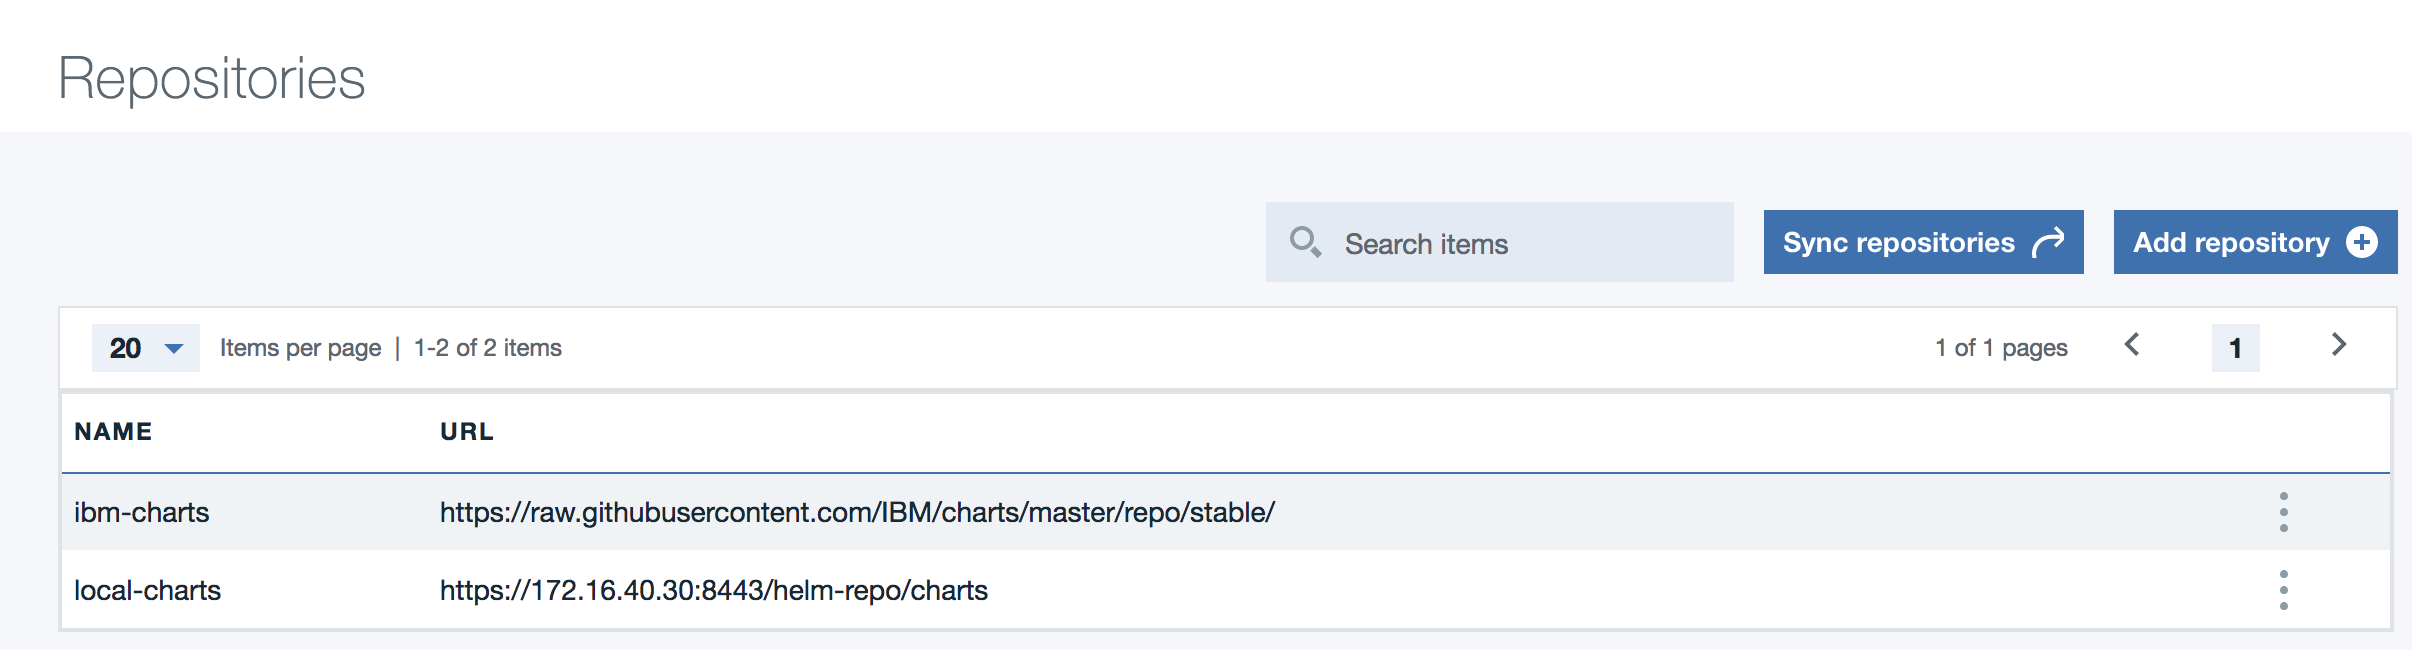
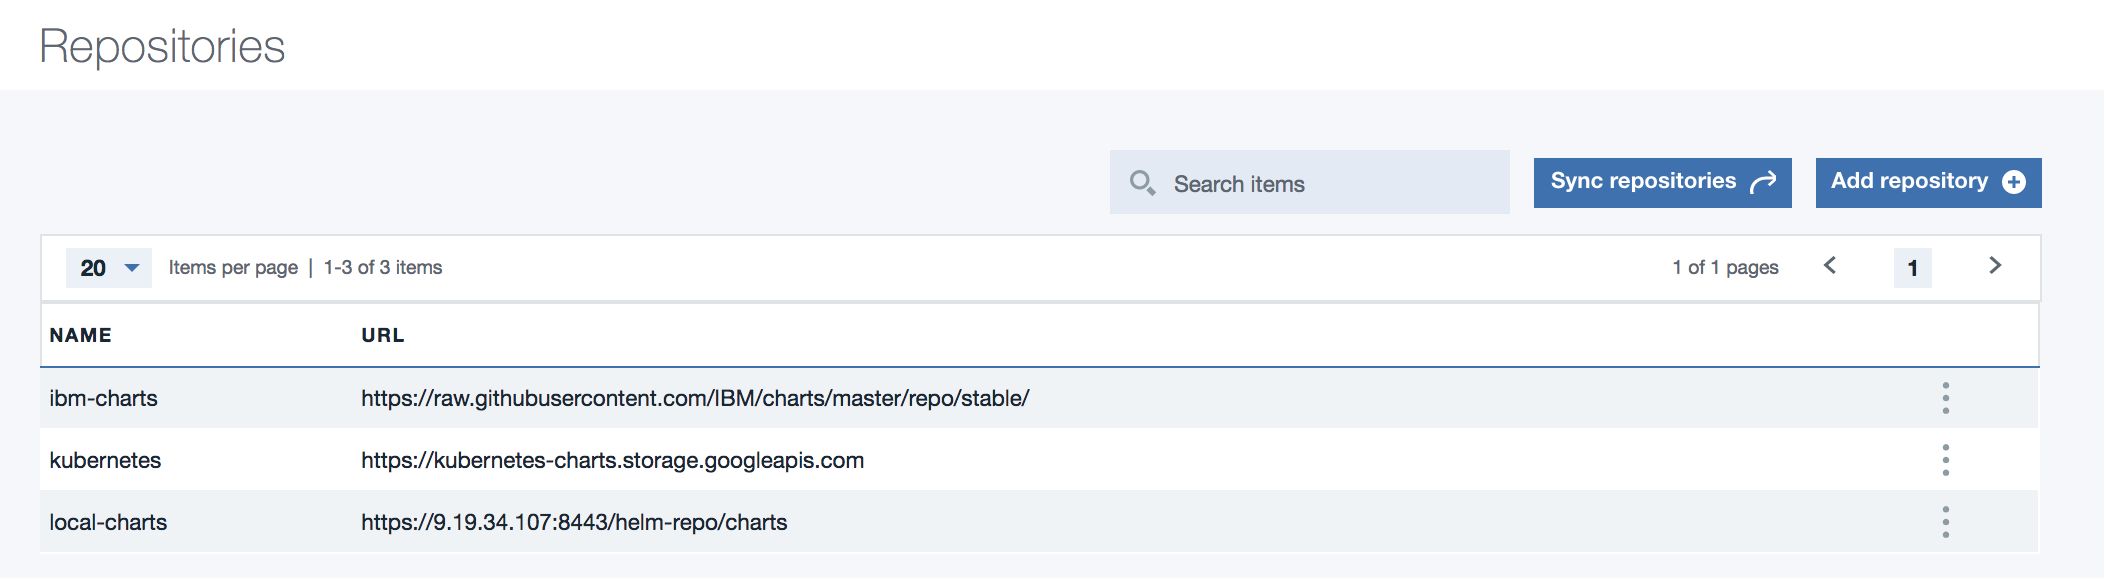
Deploy to icp update

diff --git a/docs/icp/README.md b/docs/icp/README.md
@@ -1,7 +1,7 @@
 # IBM Cloud Private Deployment
-In this section we are presenting how *Hybrid integration compute implementation* is deployed to IBM Cloud Private. For that we will address different configurations as business and operation requirements may differ per data center.
+In this section we are presenting how *Hybrid integration compute implementation* is deployed to IBM Cloud Private. For that we will address different configurations as business and operation requirements may differ per data center and even per business application.
 
-Updated 10/18/2107
+Updated 10/23/2107
 
 ## Prerequisites
 * A conceptual understanding of how [Kubernetes](https://kubernetes.io/docs/concepts/) works.
@@ -9,38 +9,45 @@ Updated 10/18/2107
 * A basic understanding of [IBM Cloud Private cluster architecture](https://www.ibm.com/support/knowledgecenter/SSBS6K_2.1.0/getting_started/architecture.html).
 * Access to an operational IBM Cloud Private cluster.
 * Install the IBM Cloud Private command line interface to manage applications, containers, services...
-* Add a **brown** namespace using ICP admin console, under Admin > Namespaces menu
+* Add a **brown** namespace using ICP admin console, under **Admin > Namespaces** menu
+
 ![](icp-namespace.png)
 
 ![](icp-brown-ns.png)
 
-We will use this namespace to push brown components.
+We will use this namespace to push *brown* components.
 
 # ICP installation
-For the development purpose, tutorial, etc, we are using a deployment in a single virtual machine, but you will have different installation for each of you different staging environments. See [how to install a ubuntu VM and ICP 2.1](https://github.com/ibm-cloud-architecture/refarch-cognitive/blob/master/docs/ICP/README.txt)
-
-For a full tutorial on how to install ICP with 5 hosts see [this note](https://github.com/ibm-cloud-architecture/refarch-privatecloud/blob/master/Installing_ICP_on_prem.md)
+For development purpose and tutorials, we are using a ICP CE deployment in a single virtual machine. We documented how to install ICP 2.1 on ubuntu VM [here](https://github.com/ibm-cloud-architecture/refarch-cognitive/blob/master/docs/ICP/README.txt)
+For enterprise scale solution you may use multi-environments, and for high availability you will use multiple master, proxy and worker nodes.  There [following](https://github.com/ibm-cloud-architecture/refarch-privatecloud/blob/master/Installing_ICp_on_prem.md) tutorial will help you.
 
 See [ICP 2.1 product documentation](https://www.ibm.com/support/knowledgecenter/SSBS6K_2.1.0/installing/install_containers_CE.html) to get other details.
 
 # Configurations
-As an hybrid solution each components of the solution can run on existing on-premise servers or some of the components may run on IBM Cloud private. The decision to move will be linked to business requirements and availability of IBM middleware products as docker image.
-For each components of the solution the following needs to be done
+As an hybrid solution each component of the solution may run on existing on-premise server or on IBM Cloud Private. The deployment decision will be driven by the business requirements and the availability of underlying IBM middleware product as docker image.
+
+For each component of the 'hybrid integration' solution the following needs may be done:
    * build the docker image
    * tag the image with information about the target repository server, namespace, tag and version
-   * push the image to the remote docker repository
+   * push the image to the remote docker repository (most likely the one inside ICP)
    * build the helm package from the chart definition
-   * install the chart to cluster using *helm*
+   * install the chart to ICP cluster using *helm* command line interface
    * access the URL end point
 
 ## Cfg 1: Cloud native application on ICP
-This is the simplest deployment where the cloud native web application ([the 'case' portal](https://github.com/ibm-cloud-architecture/refarch-caseinc-app)) is deployed as container running in ICP, but it accesses the back end service via API Connect running on-premise. All other components run on-premise.
+This is the simplest deployment where the cloud native web application ([the 'case' portal](https://github.com/ibm-cloud-architecture/refarch-caseinc-app)) is deployed as container running in ICP, and accesses the back end service via API Connect running on-premise. All other components run on-premise.
 
 ![WebApp](./bc-icp-cfg1.png)
 
-This approach will be the less disruptive, let the development team to innovate with new polyglot runtime environments supported by Cloud native based application.
+This approach will be the less disruptive, let the development team innovating with new polyglot runtime environments supported by cloud native based application and micro services.
 
 To support this configuration you just need to package the web application as docker container, define a helm chart for ICP deployment configuration settings, and use helm and kubectl command line interface. The [following tutorial](https://github.com/ibm-cloud-architecture/refarch-caseinc-app/blob/master/docs/run-icp.md) presents those steps in detail.
+
+If you want to review each component here are their relative description:
+* [API Connect - Inventory product](https://github.com/ibm-cloud-architecture/refarch-integration#inventory-management)
+* [Gateway flow in integration broker](https://github.com/ibm-cloud-architecture/refarch-integration-esb#inventory-flow)
+* [SOAP service for data access Layer](https://github.com/ibm-cloud-architecture/refarch-integration-inventory-dal#code-explanation)
+* [Inventory database](https://github.com/ibm-cloud-architecture/refarch-integration-inventory-db2#inventory-database)
 
 ## Cfg 2: Web App, API Connect on ICP
 This configuration is not yet supported. The API Connect gateway component, the API manager and API developer portal are all deployed on ICP.
@@ -86,6 +93,53 @@ This approach has an impact on the way to manage application inside IIB. Instead
 The how to do this kind of deployment is described [here](https://github.com/ibm-cloud-architecture/refarch-integration-esb/blob/master/IBMCloudprivate/README.md)
 
 The last configuration will be to run all the components on ICP, and we already documented how each component deploy.
+
+## Use ICP Catalog
+A packaged application can be used as template for creating application. Using the ICP admin console you can get the list of repositories using the ** Admin > Repositories ** :
+
+![](icp-repo.png)
+
+Once the helm chart is packaged, a zip file is created and the publishing steps look like the following:
+
+* copy the tfgz file to an HTTP server. (172.16.0.5 is a HTTP server running in our data center). Be sure to have write access to it.
+```
+$ scp casewebportal-0.0.1.tgz admin@172.16.0.5/storage/local-charts
+```
+* Then you need to update your private catalog index.yaml file.  The index file describes how your applications is listed in the ICP Application Center:
+```
+$ curl get -k https://9.19.34.107:8443/helm-repo/charts/index.yaml
+$ helm repo index --merge index.yaml --url http://9.19.34.117:/storage/CASE/refarch-privatecloud ./
+$ scp index.yaml admin@9.19.34.107:8443/helm-repo/charts
+```
+
+Once the repository are synchronized your helm chart should be in the catalog:
+![](helm-in-app-center.png)
+
+## Troubleshooting
+When you deploy a helm chart you can assess how the deployment went using the ICP admin console or the kubectl CLI. For the user interface, go to the ** Workloads > Deployments ** menu to access the list of current deployments. Select the deployment and then the pod list.
+In the pog view select the events to assess how the pod deployment performed
+
+![](icp-pod-events.png)
+
+and the log file in *Logs* menu
+
+![](icp-pod-logs.png)
+
+Using kublectl to get the status of a deployment
+```
+$ kubectl get deployments --namespace browncompute
+> NAME                          DESIRED   CURRENT   UP-TO-DATE   AVAILABLE   AGE
+casewebportal-casewebportal   1         1         1            1           2d
+
+```
+Get the logs and events
+```
+$  export POD_NAME=$(kubectl get pods --namespace browncompute -l "app=casewebportal-casewebportal" -o jsonpath="{.items[0].metadata.name}")
+
+$ kubectl logs $POD_NAME --namespace browncompute
+
+$  kubectl get events --namespace browncompute  --sort-by='.metadata.creationTimestamp'
+```
 
 ## Build server
 The build server will also stay on-premise as it is used by "multiple teams". This approach is to illustrate a real hybrid IT environment (We do not need to proof that all the pieces can run on cloud based solutions).
